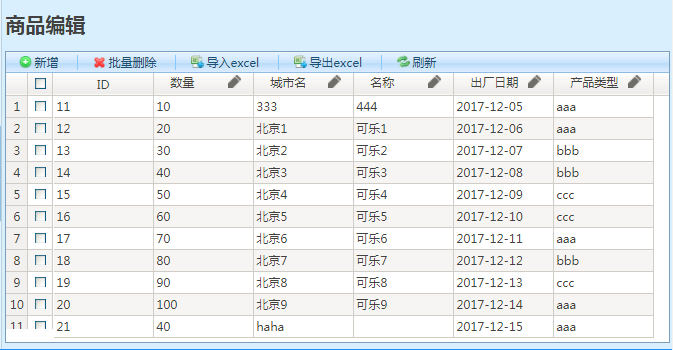
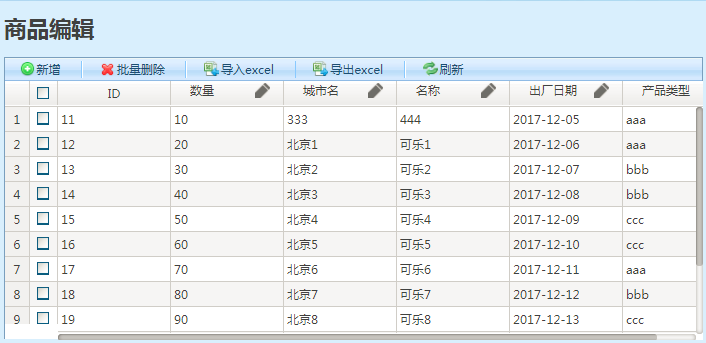
* get demo images ready

Changed region(s): [[0.0, 0.0, 1.0, 1.0], [0.0, 0.0, 0.156, 0.1166]]

diff --git a/src/net/royqh/easypersist/entity/generator/view/ViewGenerator.java b/src/net/royqh/easypersist/entity/generator/view/ViewGenerator.java
@@ -33,7 +33,7 @@ public class ViewGenerator {
     private static Template JspNtoNMappingEditViewForFullEditorTemplate = TemplateLoader.loadTemplate("View-FullEditor-Edit-NtoN-Mapping.jsp.ftl");
     private static Template JspNtoNMappingAddEditViewForFullEditorTemplate = TemplateLoader.loadTemplate("View-FullEditor-Edit-NtoN-Mapping-Add.jsp.ftl");
     private static Template JspSearchViewTemplate = TemplateLoader.loadTemplate("View-SearchView.jsp.ftl");
-    private static Template JspEnityViewForSearchViewTemplate = TemplateLoader.loadTemplate("View-SearchView-EntityView.jsp.ftl");
+    private static Template JspEnityViewForSearchViewTemplate = TemplateLoader.loadTemplate("View-SearchView-DetailView.jsp.ftl");
 
     private static void generateJspView(Entity entity, PsiDirectory psiOutputDir, String jspFileName, Template template, Map<String, Object> dataModel) {
         PsiFile oldFile = psiOutputDir.findFile(jspFileName);
@@ -86,7 +86,7 @@ public class ViewGenerator {
         }
         if (viewType.containsSearchView()) {
             generateJspViewFileForSearchView(entity, psiOutputDir,exportEnabled);
-            generateEntityViewJspViewFileForSearchView(entity,psiOutputDir,exportEnabled);
+            generateDetailViewJspViewFileForSearchView(entity,psiOutputDir,exportEnabled);
         }
 
     }
@@ -215,7 +215,7 @@ public class ViewGenerator {
         generateJspView(entity, psiOutputDir, fileName, JspSearchViewTemplate, dataModel);
     }
 
-    private static void generateEntityViewJspViewFileForSearchView(Entity entity, PsiDirectory psiOutputDir, boolean exportEnabled) {
+    private static void generateDetailViewJspViewFileForSearchView(Entity entity, PsiDirectory psiOutputDir, boolean exportEnabled) {
         String fileName = entity.getName() + "-view-detail.jsp";
         Map<String, Object> dataModel = new HashMap<>();
         dataModel.put("entity", entity);

diff --git a/src/net/royqh/easypersist/entity/generator/service/ServiceGenerator.java b/src/net/royqh/easypersist/entity/generator/service/ServiceGenerator.java
@@ -125,15 +125,17 @@ public class ServiceGenerator {
         if (persistorType!=null) {
             typeList.add(persistorType);
         }
+        typeList.addAll(CodeUtils.getReferencedPersistCompositorTypes(entity,module));
         dataModel.put("indexedProperties",CodeUtils.getAllIndexedProperties(entity));
         try {
             if (viewType.containsFullFunctionEditor()) {
                 typeList.addAll(CodeUtils.getMappedTypeList(entity));
                 typeList.addAll(CodeUtils.getMappedTypePersistorList(entity,module));
+                dataModel.put("includeSearchView",viewType.containsSearchView());
                 ServiceForFullEditorTemplate.process(dataModel,writer);
             }
             if (viewType.containsExcelStyleEditor()) {
-                typeList.addAll(CodeUtils.getReferencedPersistCompositorTypes(entity,module));
+                dataModel.put("includeSearchView",viewType.containsSearchView());
                 ServiceForCodeEditorTemplate.process(dataModel, writer);
             }
             if (viewType==ViewType.SearchViewOnly) {

diff --git a/src/net/royqh/easypersist/ui/EditorTypeChooseDialog.java b/src/net/royqh/easypersist/ui/EditorTypeChooseDialog.java
@@ -113,6 +113,15 @@ public class EditorTypeChooseDialog extends JDialog {
                 case FullFunctionEditorOnly:
                     prepareImageAndDraw("/images/FullFunctionalEdtiorUI.png");
                     break;
+                case SearchViewOnly:
+                    prepareImageAndDraw("/images/SearchViewUI.png");
+                    break;
+                case FullFunctionEdtiorAndSearchView:
+                    prepareImageAndDraw("/images/FullEditorAndSearchView.png");
+                    break;
+                case ExcelStyleEditorAndSearchView:
+                    prepareImageAndDraw("/images/ExcelEditorAndSearchViewUI.png");
+                    break;
                 default:
                     imgEditorDemo.setImage(null);
             }
